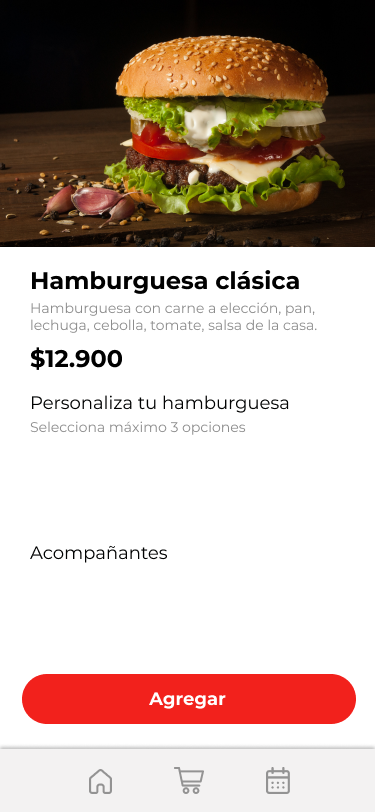
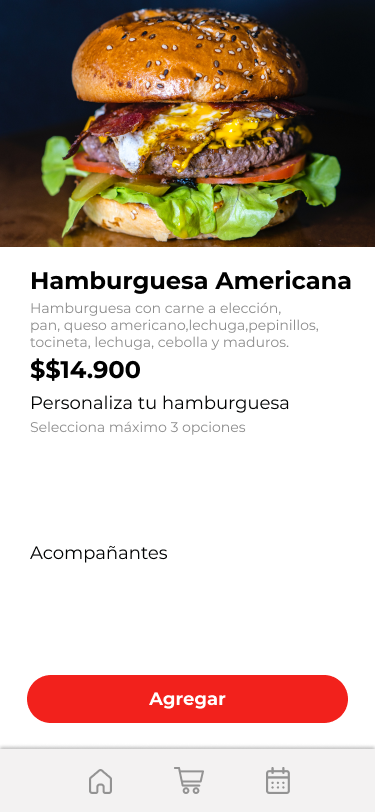
importar imagenes de otros platos

diff --git a/src/view/OrderView.java b/src/view/OrderView.java
@@ -9,8 +9,8 @@ import processing.core.PImage;
 public class OrderView {
 
 	private ControllerMain controllermain;
-	private PImage order1;
-	private PImage order2;
+	private PImage order1, order1_1,order2;
+
 	private PImage adic1;
 	private PImage adic1b;
 	private PImage adic2;
@@ -52,8 +52,10 @@ public class OrderView {
 		pressAcom3 = false;
 		pressAcom4 = false;
 		
-		order1= app.loadImage("Img/Order1.png");
 		order2= app.loadImage("Img/Order2.png");
+		
+		order1= app.loadImage("Img/Order1.png");
+		order1_1= app.loadImage("Img/Order1_1.png");
 		adic1 = app.loadImage("Img/buttons/Adic1.png");
 		adic1b = app.loadImage("Img/buttons/Adic1b.png");
 		
@@ -80,25 +82,50 @@ public class OrderView {
 		acom4b = app.loadImage("Img/buttons/Acom4b.png");
 		
 		
+		
+		
 	
 	}
 	// método para pintar la pantalla 
 	public void drawScreen() {
-	
-			
-			
+		
+          int option;
+          option=2;
+		switch (option) {
+		case 1:
 			if (app.mouseX > 27 && 348 > app.mouseX && app.mouseY > 675 && 723 > app.mouseY) {
-				app.image(order2, 0, 0);
+				app.image(order1_1, 0, 0);
 			}else {
 				app.image(order1, 0, 0);
 			}
 			
-			changeButton();
+			break;
+			
+		case 2: app.image(order2, 0, 0);
+			
+			break;
 
+		default:
+			break;
+		}
+			
+          
+ 
+			changeButton();	
+			
+			
 		
+			
 	}
 	
-
+	
+	public int switchScreen() {
+		int screen = 6;
+		return screen;
+	} 
+	
+	
+	
 	
 	public void pressButtons() {
 		pressAdditions();

diff --git a/src/view/DishView.java b/src/view/DishView.java
@@ -49,7 +49,13 @@ public class DishView {
 
 		if (app.mouseX > 34 && 346 > app.mouseX && app.mouseY > 213 && 328 > app.mouseY) {
 			screen = 5;	
-		}	
+		}	else if (app.mouseX > 88 && 113 > app.mouseX && app.mouseY > 768 && 791 > app.mouseY) {   //esta parte permite que al seleccional el icono de home se pueda regresar a esa pantalla
+			screen = 3;	
+		} 
+		   else if (app.mouseX > 34 && 346 > app.mouseX && app.mouseY > 335 && 457 > app.mouseY) {   
+			screen = 6;	
+		} 
+		
 		return screen;
 	}
 }

diff --git a/src/view/Main.java b/src/view/Main.java
@@ -62,6 +62,9 @@ public class Main extends PApplet {
 		case 5:
 			orderview.drawScreen();
 			break;
+		case 6:
+			orderview.drawScreen();
+			break;
 		default:
 			break;
 		}
@@ -89,7 +92,13 @@ public class Main extends PApplet {
 			break;
 		case 5:
 			//screen = dishview.switchScreen();
+		//	orderview.switchScreen();
 			orderview.pressButtons();
+			break;
+		case 6:
+			//screen = dishview.switchScreen();
+			screen=orderview.switchScreen();
+			
 			break;
 		
 

diff --git a/src/view/HomeView.java b/src/view/HomeView.java
@@ -41,9 +41,9 @@ public class HomeView {
 
 		if (app.mouseX > 34 && 346 > app.mouseX && app.mouseY > 146 && 282 > app.mouseY) {
 			screen = 4;
-		}	
+		} 
 		return screen;
-	}
+	} 
 	
 	
 	
